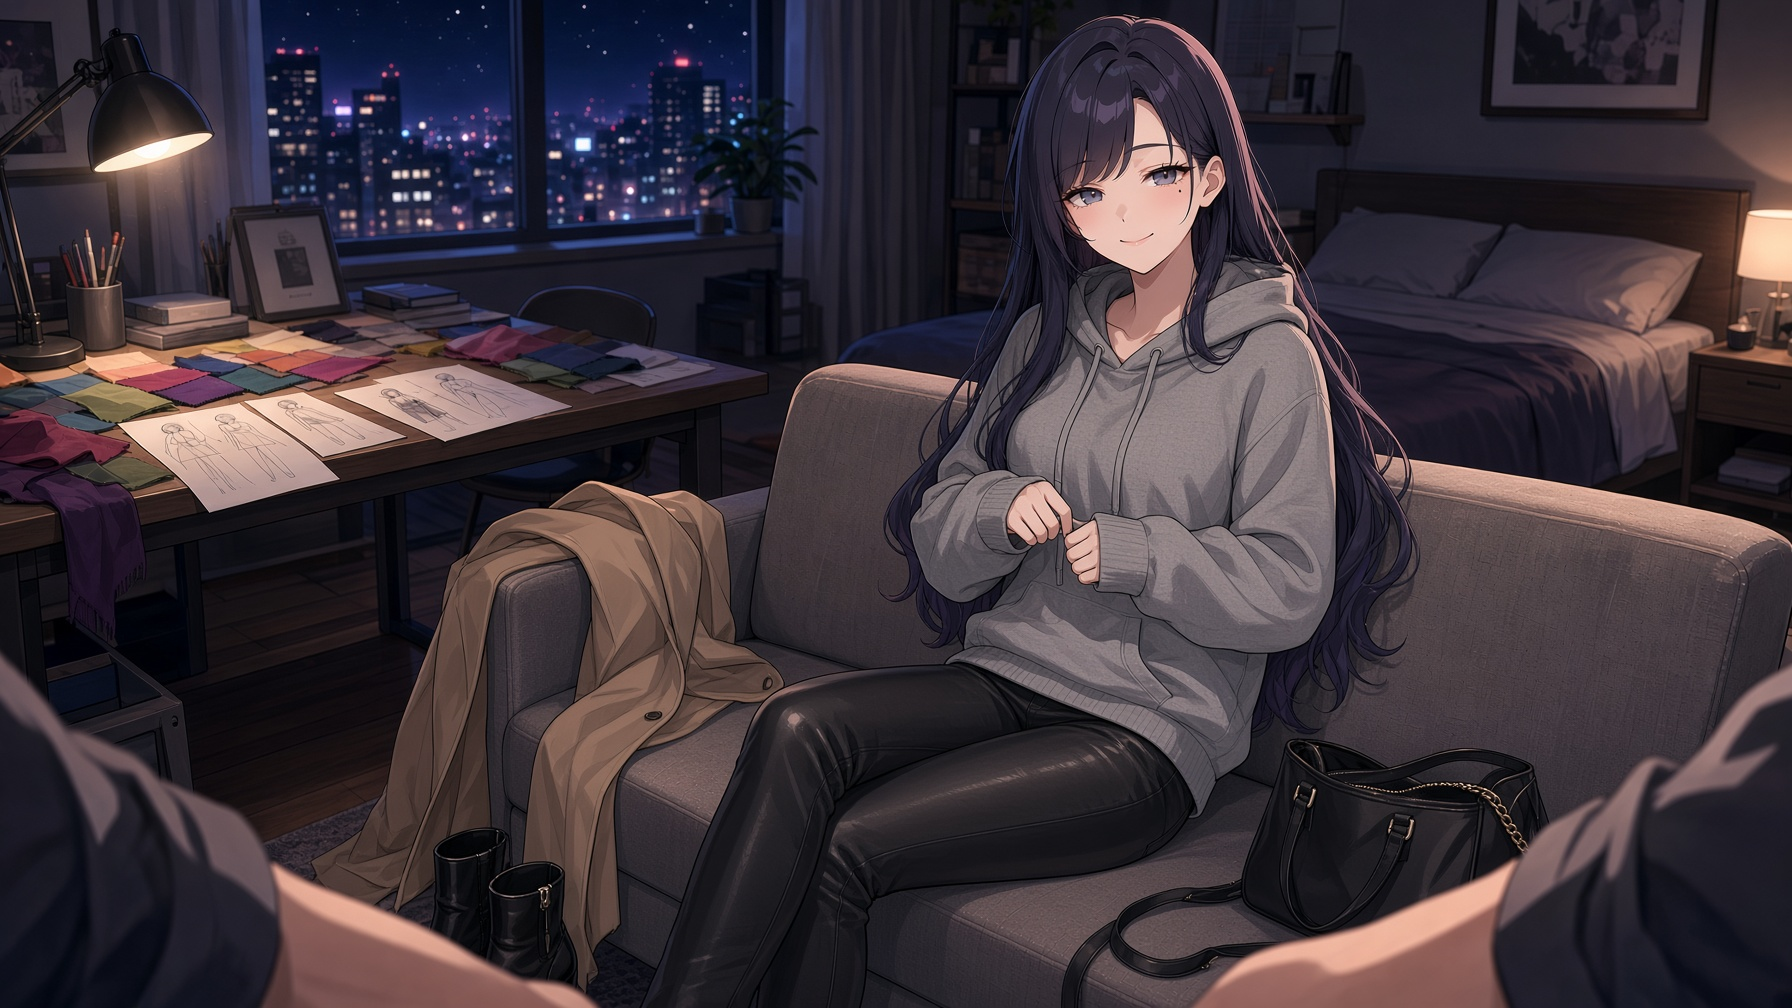
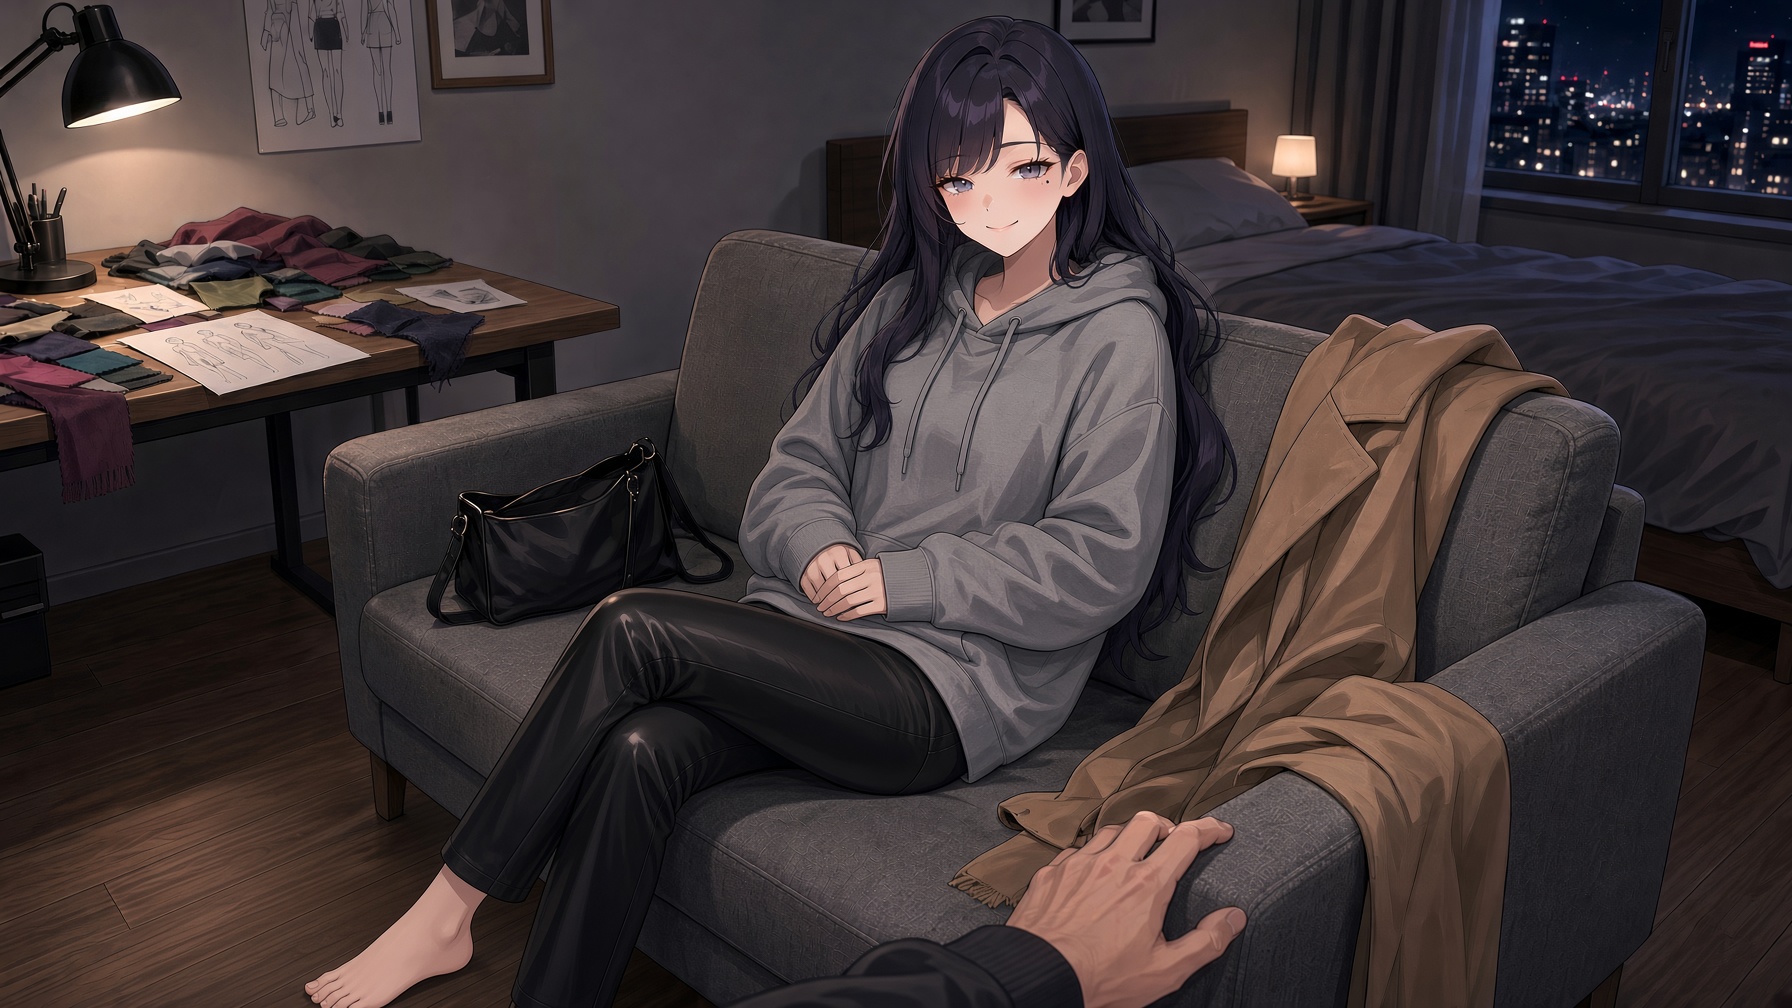
Apply Seoyun fix batch to candidates; hold police aftercare
Claude-Session: https://claude.ai/code/session_01Dnvp3arKhcQBC88sGG3zUd

diff --git a/CharacterArt/candidates/seoyun-events-grok-v001/README.md b/CharacterArt/candidates/seoyun-events-grok-v001/README.md
@@ -11,3 +11,12 @@
 | 시점 수정 | R07 A, R12 A, R15 생활복 A, 간호사 A: 화면 아래 구석에 남자의 어깨·등이 뒤에서 본 모습으로 걸려 있어, 주인공 시점이 아니라 제3자가 보는 화면처럼 보인다 |
 | 노출 추가(사용자 요청) | 간호사 A, 여경찰 A, 코스프레 C 세 장 |
 | 소품 | 여경찰 C의 알록달록한 패치워크 담요가 작업실 톤과 맞지 않는다 |
+
+## 추가본 반영 (2026-11-24, zip SHA-256 앞자리 a11f194af5a1786c)
+| 파일 | 상태 |
+|---|---|
+| r15_cosplay_nurse_intro, r15_cosplay_police_intro, r15_cosplay_nurse_after | 교체·통과(노출 추가, 주인공 손만 보임) |
+| r12_special_intro, r15_home_intro | 교체·통과(시점 수정). r15_home_intro_alt는 다른 안 |
+| r15_cosplay_bunny_after | 교체·통과(바니수트+셔츠). _alt는 속옷 세트판 |
+| r15_cosplay_police_after_pending | 보류: 하의 속옷이 그려지지 않음(수위 기준 밖), 무릎 위 경찰 모자 빠짐. 기존 police_after 유지 |
+| r07_casual_intro | 아직 다시 그리지 않음(구석 어깨 문제 남음) |
